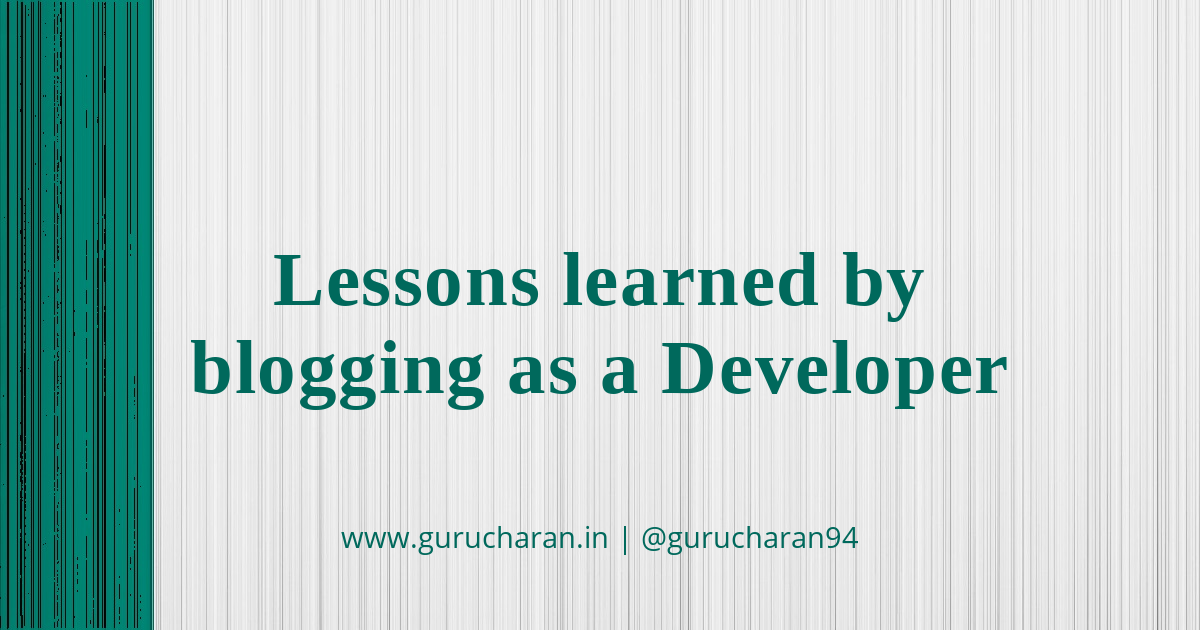
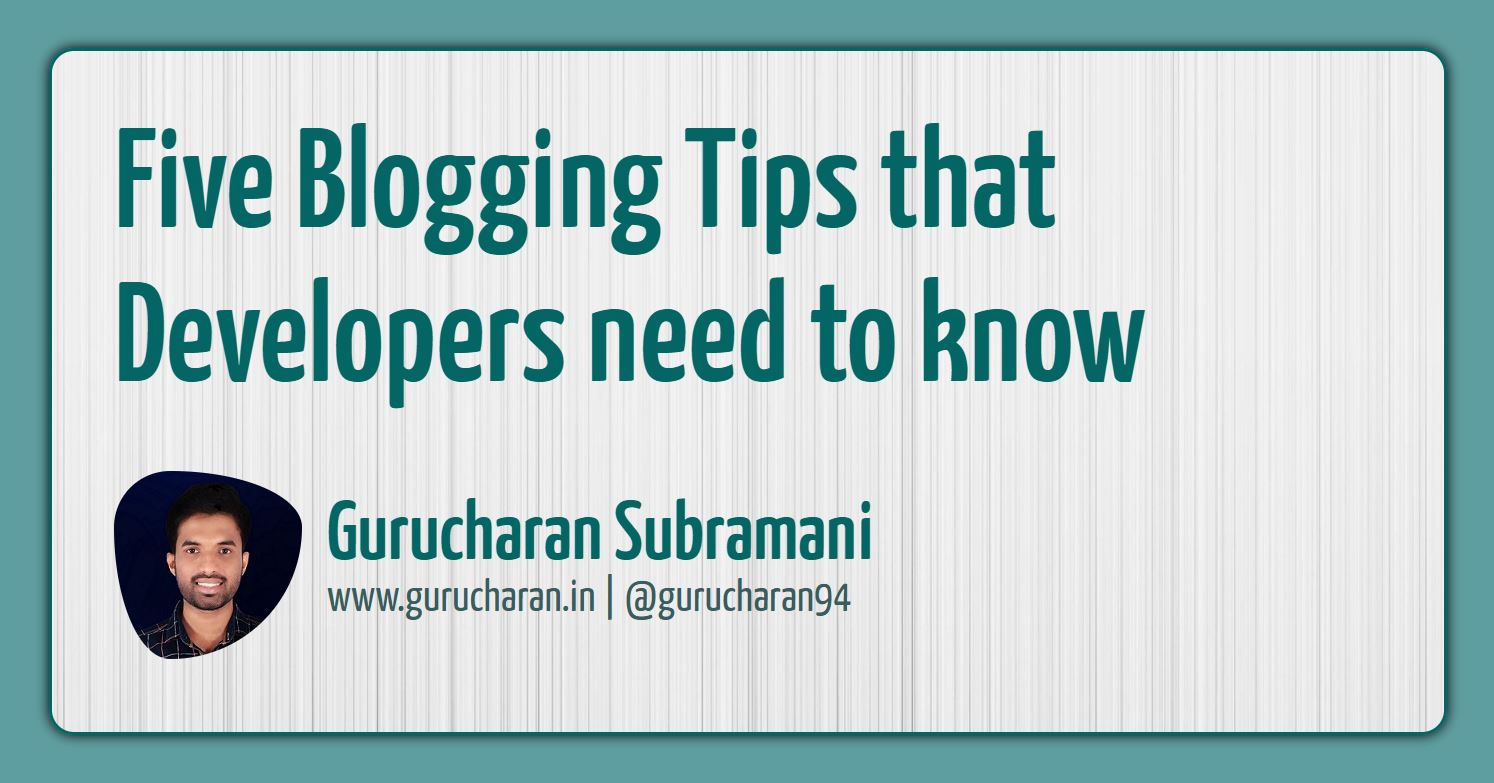
Update (#23)
* Update

* Update

* Remove GH Actions

* Auto Generated OG image

diff --git a/assets/aaa.html b/assets/aaa.html
@@ -6,8 +6,8 @@
   <link rel="stylesheet" href="https://cdnjs.cloudflare.com/ajax/libs/Primer/10.8.1/build.css">
   <style>
     .img-round {
-      width: 120px;
-      height: 120px;
+      width: 150px;
+      height: 150px;
       border-radius: 50%;
       margin-right: 10px;
       border-radius: 30% 70% 70% 30% / 30% 30% 70% 70%;
@@ -25,6 +25,8 @@
     body {
       font-family: 'Yanone Kaffeesatz', sans-serif;
       color: #036564;
+	  height:630px;
+	  width:1200px;
     }
 
     .parent-container {
@@ -49,7 +51,7 @@
 
     .title {
       font-size: 112px;
-      line-height: 115%;
+      line-height: 110%;
       font-weight: 600;
     }
 
@@ -64,14 +66,14 @@
     }
 
     .author-name {
-      font-size: 50px;
+      font-size: 66px;
       font-weight: 600;
       margin: 0%;
       line-height: 70%;
     }
 
     .author-links {
-      font-size: 30px;
+      font-size: 36px;
       color: #375d5e;
     }
   </style>
@@ -88,7 +90,7 @@
           src="https://raw.githubusercontent.com/GuruCharan94/gurucharan94.github.io/master/assets/images/gurucharan94.jpeg">
         <div class="author-details">
           <p class="author-name">Gurucharan Subramani</p>
-          <div class="author-links">www.gurucharan.in | @gurucharan94</div>
+          <div class="author-links"> www.gurucharan.in | @gurucharan94</div>
         </div>
       </div>
     </div>

diff --git a/_drafts/2030-05-30-what-i-learnt-about-building-a-successful-career-in-tech.md b/_drafts/2030-05-30-what-i-learnt-about-building-a-successful-career-in-tech.md
@@ -1,0 +1,57 @@
+---
+title: What I learnt about building a successful career in tech
+date: 2030-05-30
+header:
+  teaser: "/assets/images/career-advice.jpg"
+  thumbnail:  "/assets/images/career-advice.jpg"
+  og_image: "/assets/images/career-advice.jpg"
+categories:
+- LifeSkills
+tags:
+- 
+excerpt: 
+ogImage:
+  title: "**What I learnt about building a successful career in tech**"
+  subtitle: "www.gurucharan.in | @gurucharan94"
+  filename: "filename"
+  fontSize:  "120%"
+---
+
+This month I complete FIVE YEARS as a Software Developer. Here is a collection of some of the top lessons in no specific order that I learned about building a successful career as a developer.
+
+## 1. OK to Negotiate
+
+- Your colleagues negotiated. May be benefits. But they negotiated.
+- It is not a conflict. It is a discussion. You'd negotiate on house, on a car. Negotiate on the value of your skills and time as well.
+
+## 2. "It's not about money"
+
+- You owe it to yourself. Salary Compression.
+- They are trying to keep you down.
+- Maslow hierarchy. Money gives you options.
+
+## 3. Your Manager is not your family
+
+- aaa
+- aaa
+- sss
+
+## 4. HR is not your friend
+
+## 7. Imposter Syndrome is Real
+
+## 8. Interviews are broken
+
+- Apply if you match 50% of the skills.
+- you cannot agile, devops, kubernetes your way around a crappy culture.
+- Here is a role I vacated.
+
+## 5. Do you having a Mentor / Sponsor ?
+
+## 10. Coding for Work vs Coding for fun
+
+
+- Three things if you want to be successful
+  - Skills
+  - Reputation
+  - Network

diff --git a/_posts/2020-05-16-how-to-migrate-data-between-two-cosmo-db-instances.md b/_posts/2020-05-16-how-to-migrate-data-between-two-cosmo-db-instances.md
@@ -48,4 +48,18 @@ foreach ($collection in $cosmosCollections)
 }
 ```
 
-There is no value in keeping this hidden on a folder in my hard drive, is there ? So, I made it public. I am pretty sure that I will do an internet search for this later 😎. Hopefully will find this useful as well.
+You can save this script in your computer. Once you execute this file, you will see logs that shows you how many records were migrated
+
+``` txt
+Transferred: 0; Failed: 0; Elapsed Time: 00:00:00
+Transferred: 250; Failed: 0; Elapsed Time: 00:00:04.8250522
+Transferred: 650; Failed: 0; Elapsed Time: 00:00:09.8259306
+Transferred: 1050; Failed: 0; Elapsed Time: 00:00:14.8389670
+Transferred: 1450; Failed: 0; Elapsed Time: 00:00:19.8393121
+Transferred: 1800; Failed: 0; Elapsed Time: 00:00:24.8405494
+Transferred: 2200; Failed: 0; Elapsed Time: 00:00:29.8413284
+Transferred: 2600; Failed: 0; Elapsed Time: 00:00:34.8423809
+Transferred: 3000; Failed: 0; Elapsed Time: 00:00:39.8551647
+```
+
+There is no value in keeping this hidden on a folder in my hard drive, is there ? So, I made it public. I am pretty sure that I will do an internet search for this later 😎. Hopefully, you will find this useful as well.

diff --git a/_posts/2020-05-13-blogging-as-a-developer.md b/_posts/2020-05-13-blogging-as-a-developer.md
@@ -1,5 +1,5 @@
 ---
-title: The five things I learned about starting Blogging as a Developer
+title: What you need to know about blogging as a developer
 date: 2020-05-13
 image : "/assets/images/blogging-as-a-developer.jpg"
 header:
